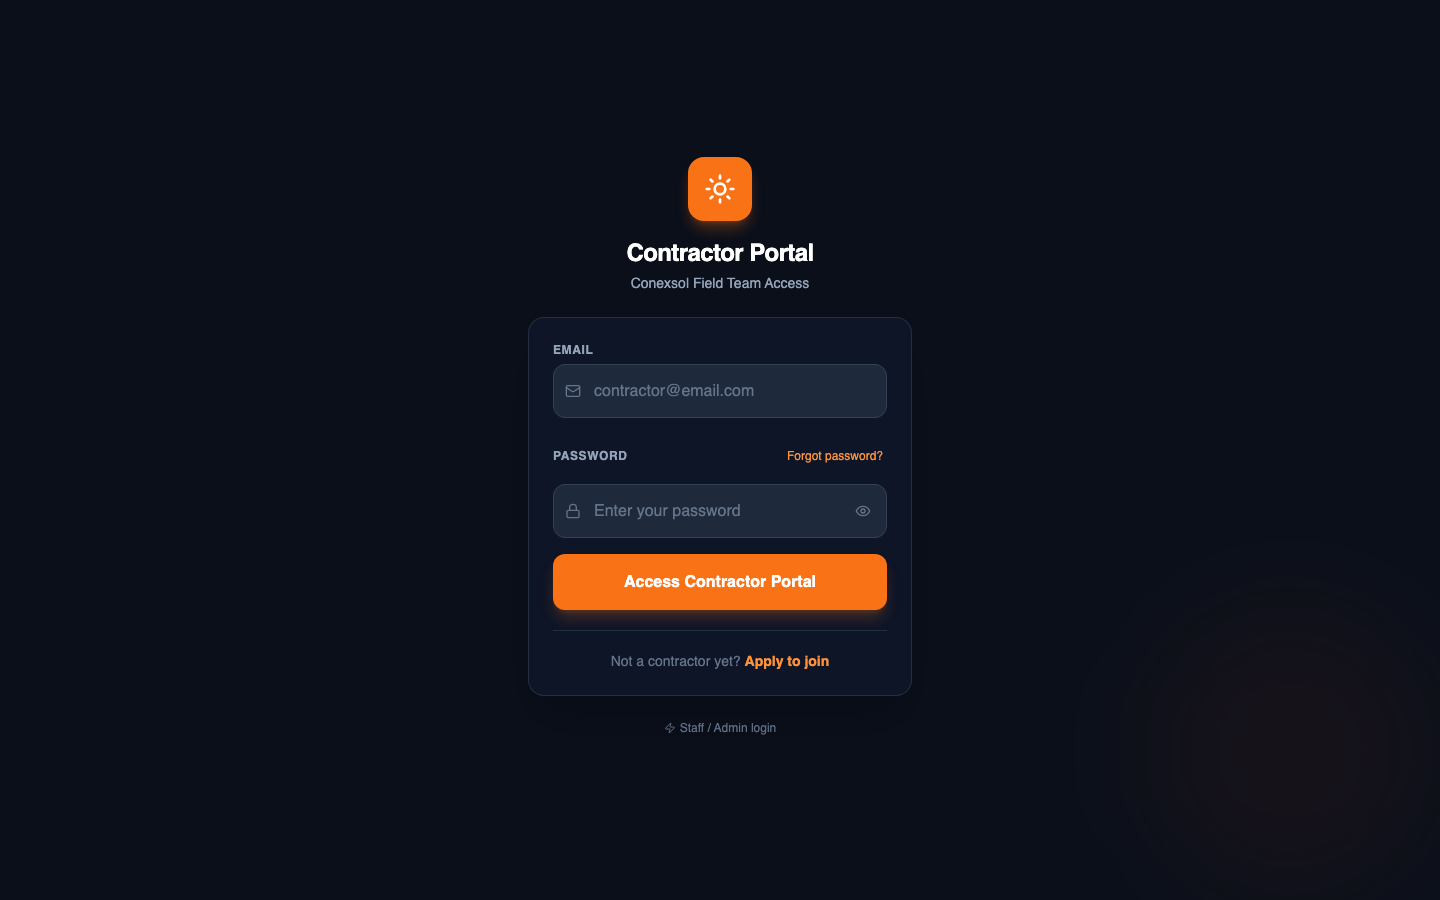
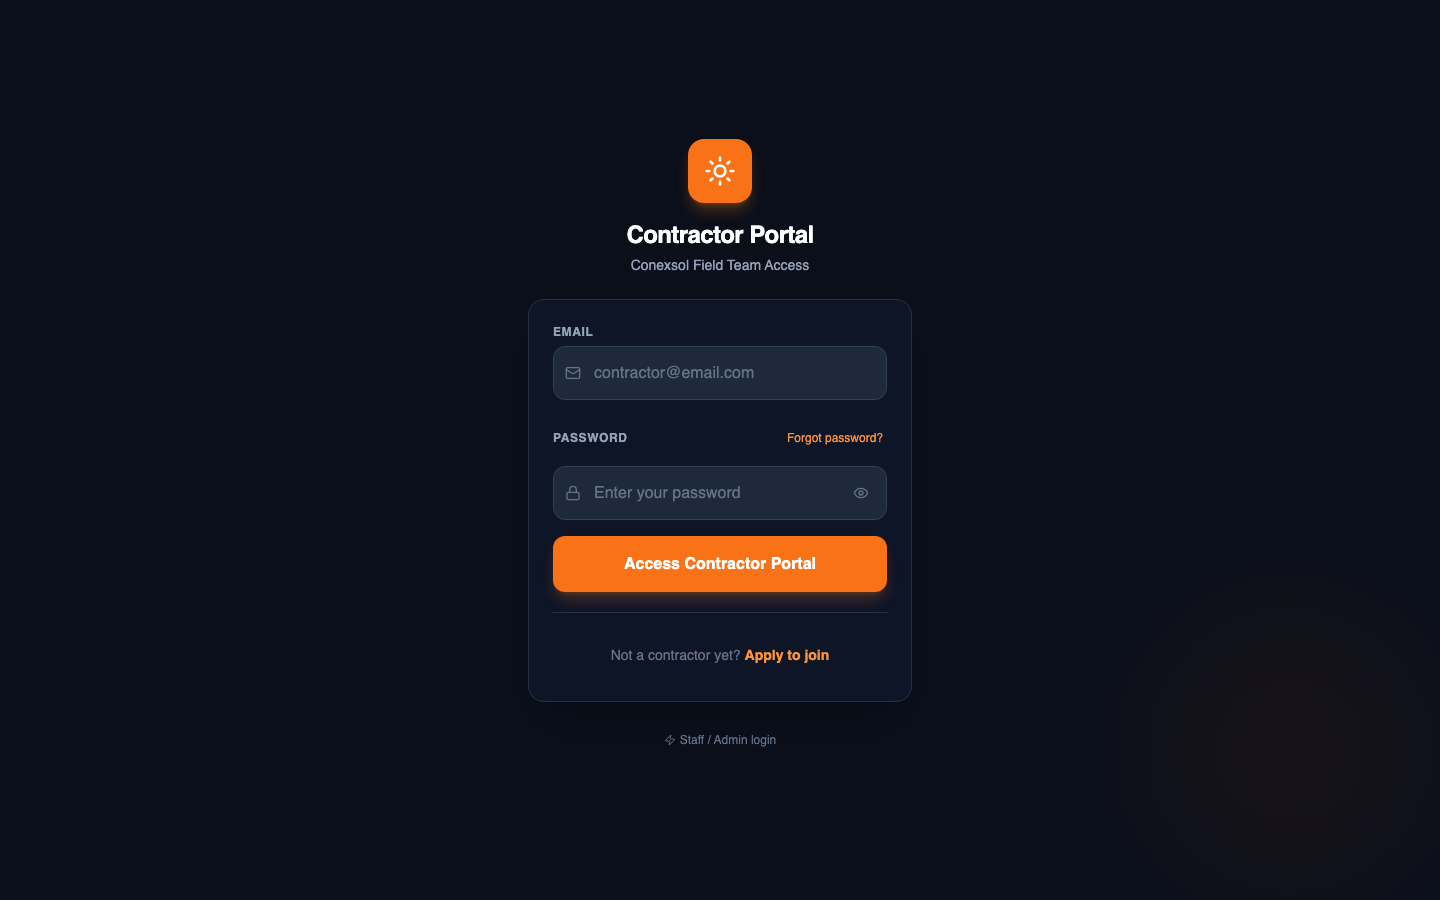
docs: record verified login deployment and refresh auth catalog

diff --git a/2026-09-08.md b/2026-09-08.md
@@ -1,0 +1,17 @@
+
+# Login hardening production release
+
+User explicitly authorized deployment. Restored the verified login work held back by 8cbae9d, preserving the later sales routing and unrelated uncommitted Trello/backfill changes. Used an isolated repository-root checkout.
+
+- Application commit: 7f14bf3. Final deployed commit: 4786975 (test-runtime compatibility follow-up).
+- Local full suite: 714 passed; browser regression: 79 UI + 33 session scenarios passed.
+- Hosted build and test steps passed after fixing the global test setup to guard navigator in Node-only tests. The initial CI failure was reproduced locally with Node navigator disabled; all 714 then passed.
+- Live version: v1.7.6.2; build: v1.7.6.2+4786975.1788871729178; builtAt: 2026-09-08T12:48:49.178Z.
+- Production: https://solarflow-dashboard-sooty.vercel.app
+- /api/users returns 401 JSON, confirming serverless execution.
+- Live desktop Chromium, mobile Chromium and mobile WebKit checks passed: staff and contractor screens render with accessible field labels and password visibility control; no mobile horizontal overflow. No live passwords submitted by these smoke checks.
+- The catalog script captured 23/24 screens; billing-kanban encountered navigation interruption. Authentication catalog images refreshed; unrelated prior catalog images retained.
+
+Root causes addressed: cached browser flags bypassing auth, contractor sign-out omission, duplicate password completion state and unsafe contractor persistence, ignored provider errors, and UI-only timeout races. Application source plus regression runners restored in the release; hosted test setup guard is the only additional correction.
+
+Deployment governance observation: Vercel Git deployment became live before GitHub CI finished. Therefore CI is not currently an enforced production gate. This release was locally tested before push and ultimately passed hosted tests, but the integration configuration remains a follow-up. Physical devices and backend RLS/password-policy verification remain as recorded in the login audit.

diff --git a/UI_SCREEN_CATALOG.md b/UI_SCREEN_CATALOG.md
@@ -311,3 +311,7 @@ Text-only routing reference: [UI_UX_SCREEN_MAP.md](UI_UX_SCREEN_MAP.md)
 
 ---
 
+
+## Login release refresh, 2026-09-08
+
+Authentication screenshots refreshed for the login/session hardening release. The full capture script reached 23/24 screens; billing-kanban was interrupted by navigation, so its earlier catalog image remains the reference. Only the four authentication images are updated in this scoped release record. Live desktop and both mobile login smoke checks passed separately.
